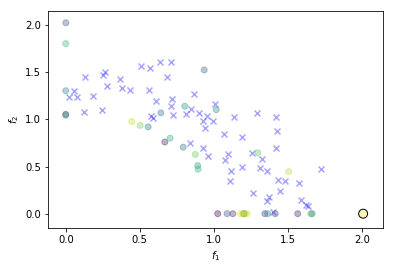
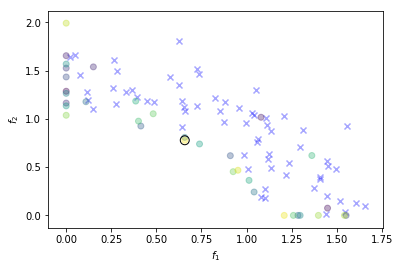
Updated code and bug with numpy 1.13.1 is fixed.

diff --git a/IscaOpt/optimiser.py b/IscaOpt/optimiser.py
@@ -52,7 +52,7 @@ class Optimiser(object):
     """
         
     @staticmethod
-    def CMA_ES(toolbox, centroid=[1], std_dev=1, lb=[0], ub=[1], cma_options={}):
+    def CMA_ES(toolbox, centroid=[1], std_dev=1, cma_options={}):
         """
         A wrapper for CMA-ES (Hansen) with DEAP toolbox.
         
@@ -146,7 +146,7 @@ class Optimiser(object):
         draw_true_1d = settings.get('draw_true_1d', False)
         # cma_options for Hansen's CMA-ES
         cma_options = settings.get('cma_options', \
-                                    {'bounds':[lb, ub], \
+                                    {'bounds':[list(lb), list(ub)], \
                                      'tolfun':1e-7, \
                                      'maxfevals':maxfevals,\
                                      'verb_log': 0,\
@@ -223,7 +223,7 @@ class Optimiser(object):
             
             start = time.time()
             if n_dim > 1:
-                xopt = Optimiser.CMA_ES(toolbox, cma_centroid, cma_sigma, lb, ub, \
+                xopt = Optimiser.CMA_ES(toolbox, cma_centroid, cma_sigma, \
                                     cma_options=cma_options)
             else:
                 xopt = Optimiser.grid_search_1D(toolbox, lb, ub, n=maxfevals)

diff --git a/ReadME.md b/ReadME.md
@@ -110,14 +110,14 @@ clear_output()
 ```
 
 
-![png](figures/dtlz2.png)
+![png](dtlz2.png)
 
 
 In the Figure above, the blue crosses show the initial samples, and the solid circle show the newly sampled solutions with darker colours showing earlier samples. The black encircled solid is the latest sample.
 
 ## Known issues
 
-* The code works with numpy version 1.12.1 or earlier. This is becasue CMA-ES does not seem to work with later versions of numpy. 
+* ~~The code works with numpy version 1.12.1 or earlier. This is becasue CMA-ES does not seem to work with later versions of numpy.~~ This is now fixed.
 
 ## Errata
 
